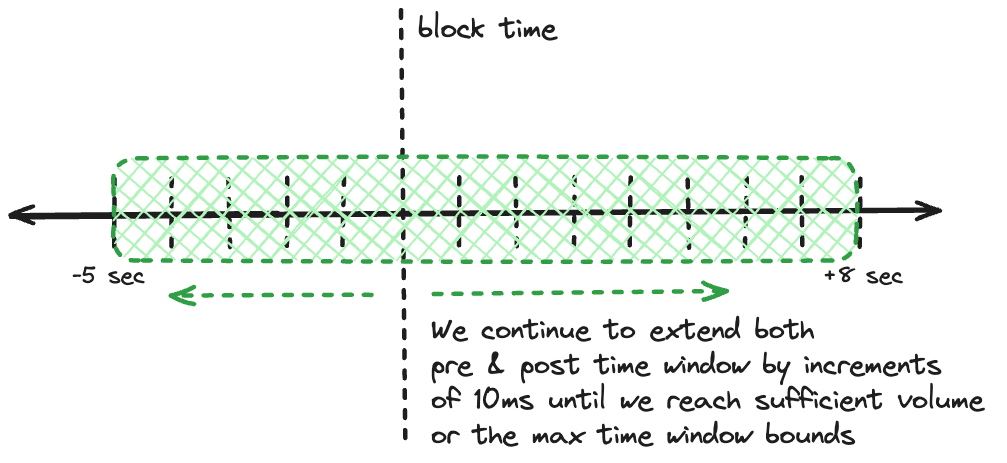
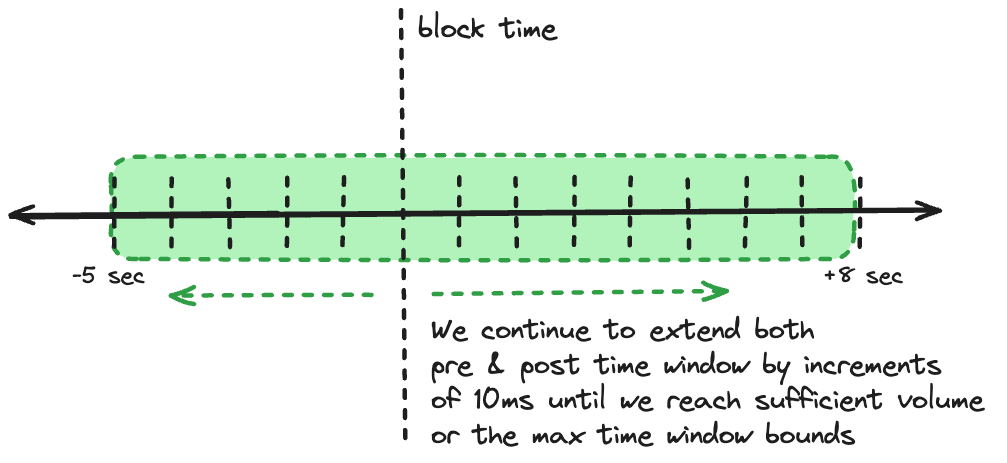
Ludwig/c d docs (#732)
* cex-dex-docs WIP

* dex-wip

* nearly done with cex-dex-docs

* wip

* make diagram prettier

* fix book build

* wip cex-dex-docs

Changed region(s): [[0.0924, 0.3326, 0.862, 0.5745]]

diff --git a/crates/brontes-types/src/db/cex/trades/vwam.rs b/crates/brontes-types/src/db/cex/trades/vwam.rs
@@ -396,7 +396,6 @@ impl CexTradeMap {
     ) -> Option<MakerTakerWithVolumeFilled> {
         let mut trades = Vec::new();
 
-        // multiply volume by baskets to assess more potential baskets of trades
         let volume_amount = volume;
         let mut cur_vol = Rational::ZERO;
         // Populates an ordered vec of trades from best to worst price
@@ -417,6 +416,7 @@ impl CexTradeMap {
         let mut exchange_with_vol = FastHashMap::default();
 
         let mut trades_used = Vec::with_capacity(trades.len());
+
         // For the closest basket sum volume and volume weighted prices
         for trade in trades {
             let (m_fee, t_fee) = trade.get().exchange.fees();

diff --git a/book/mev_inspectors/cex_dex.md b/book/mev_inspectors/cex_dex.md
@@ -35,9 +35,9 @@ Our `merge_possible_swaps` function combines these sequential swaps, allowing us
 
 ### Step 3: CEX Price Estimation
 
-To estimate the CEX price the arbitrageur traded at, we use two distinct methods:
+To estimate the CEX price the arbitrageur traded at, we use two distinct methods
 
-### Dynamic Time Window Volume Weighted Markouts
+### A. Dynamic Time Window Volume Weighted Markouts
 
 This method calculates a Volume Weighted Average Price (VWAP) within a dynamic time window around each block. We use a dynamic window to capture diverse arbitrage scenarios across different market conditions.
 
@@ -125,11 +125,75 @@ This formula balances three key factors:
 
 The result is a price estimate that reflects both market depth and the likely timing of arbitrage executions.
 
-#### B. Optimistic VWAP
+This method returns a `MakerTakerWindowVWAP` for each DEX swap:
 
-1. Collect all trades within a set time window.
-2. Sort trades by price and select the most favorable trades up to the required volume.
-3. Calculate VWAP based on these selected trades.
+```rust,ignore
+pub type MakerTakerWindowVWAP = (WindowExchangePrice, WindowExchangePrice);
+
+pub struct WindowExchangePrice {
+    pub exchange_price_with_volume_direct: FastHashMap<CexExchange, ExchangePath>,
+    pub pairs: Vec<Pair>,
+    pub global_exchange_price: Rational,
+}
+```
+
+- `exchange_price_with_volume_direct`: Provides the prices and volumes for each exchange
+- `pairs`: Shows the traded token pairs, which is useful when their isn't a direct pair on the CEX
+- `global_exchange_price`: Represents the volume weighted average price across all exchanges
+
+### B. Optimistic Execution Calculation
+
+This method provides an upper bound on potential arbitrage profitability by assuming near optimal trade execution within a fixed time window.
+
+#### Process
+
+1. Data Collection:
+
+   - Gather all trades across all exchanges within a fixed time window. We currently set the default to -0.5 +2 seconds around the block time.
+
+2. Trade Sorting:
+
+   - Order trades from most to least advantageous price.
+   - Most advantageous trades are those resulting in highest PnL for the arbitrageur.
+
+3. Volume Filtering:
+
+   - Remove trades with volume exceeding arbitrage requirements.
+   - Apply a 10% buffer to account for potential volume variations.
+
+4. Trade Selection:
+   - Use a quality parameter (expressed as a percentage) to determine starting point in sorted trades.
+   - Select most favorable trades up to the required clearance amount.
+
+#### Key Considerations:
+
+TODO: Changes to optimistic execution calculation
+
+- Break up the trade window into smaller trade baskets
+- use the quality parameter to select trades on this basis
+-
+
+- This method assumes perfect foresight and execution, providing a "best-case" scenario.
+- It's useful for identifying the maximum potential of an arbitrage opportunity.
+- The fixed time window and quality parameter are configurable to adjust for different market conditions.
+
+This method returns a `MakerTaker` for each DEX swap:
+
+```rust,ignore
+pub type MakerTaker = (ExchangePrice, ExchangePrice);
+
+pub struct ExchangePrice {
+    pub trades_used: Vec<OptimisticTrade>,
+    pub pairs: Vec<Pair>,
+    pub final_price: Rational,
+}
+```
+
+- `trades_used`: Lists the specific trades used in the optimistic calculation
+- `pairs`: Indicates the token pairs involved
+- `final_price`: Represents the optimistic execution price
+
+In the next step, we'll explore how we use these price estimates to calculate the actual arbitrage PnL, considering both realistic market conditions and best-case scenarios.
 
 ### Step 4: Calculate Potential Arbitrage Profits
 
